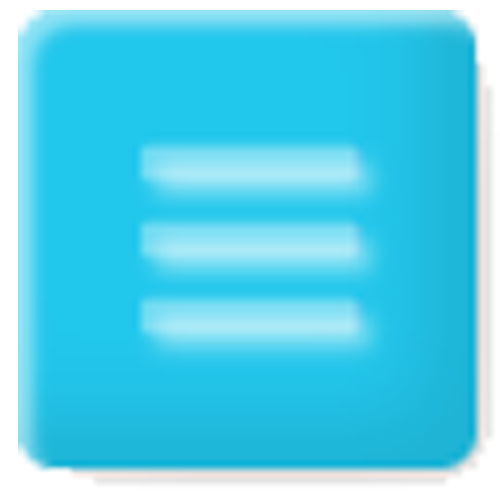
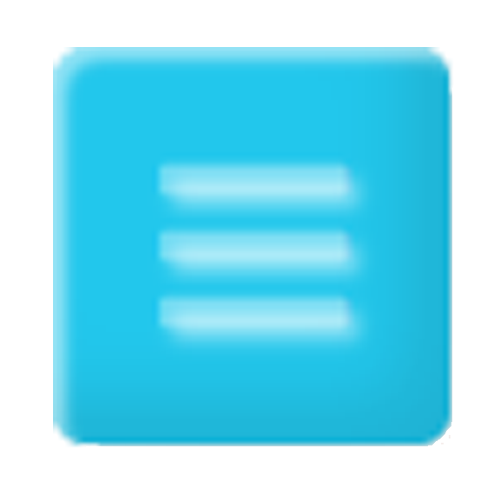
release 1.0:aggiunta opzione skip

diff --git a/findItFrontend/src/app/components/message/message.component.html b/findItFrontend/src/app/components/message/message.component.html
@@ -23,7 +23,7 @@
                 <span>Clicca sull'icona per attivare una lente di ingrandimento.(Ti verranno detratti punti)</span>
             </li>
             <li>
-                <img src="https://find-it-genious.onrender.com/public/images/zoom.png">
+                <img src="https://find-it-genious.onrender.com/public/images/menu.png">
                 <span>Clicca sul quadrato in alto a destra dello schermo per aprire il menù.</span>
             </li>
             <li>
